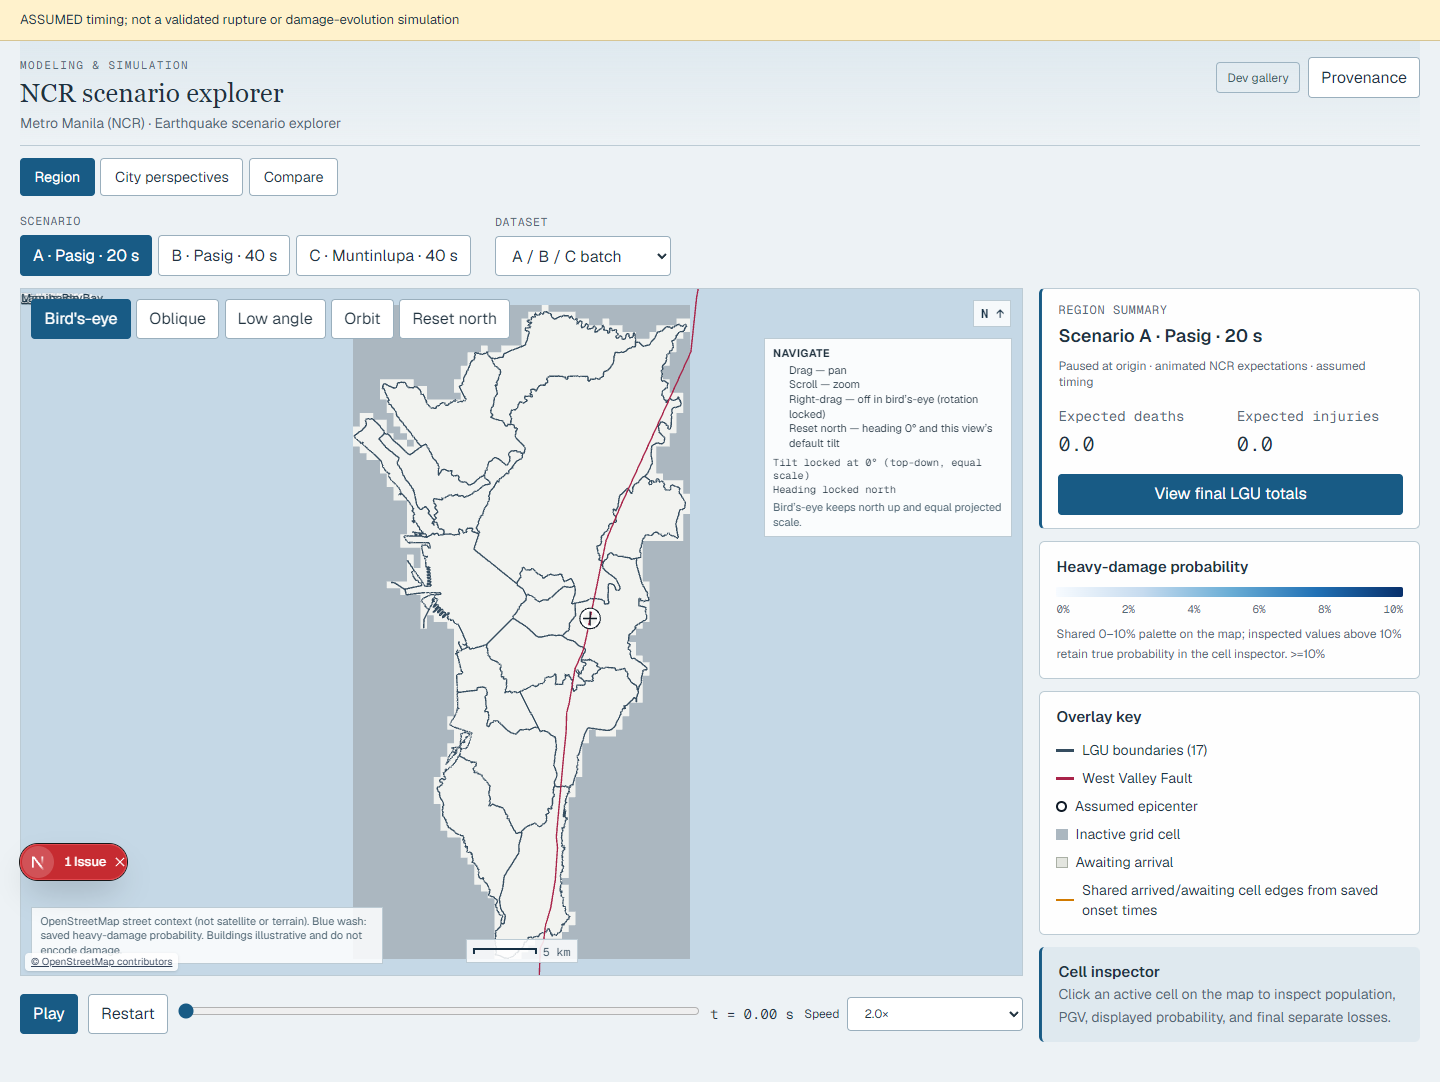
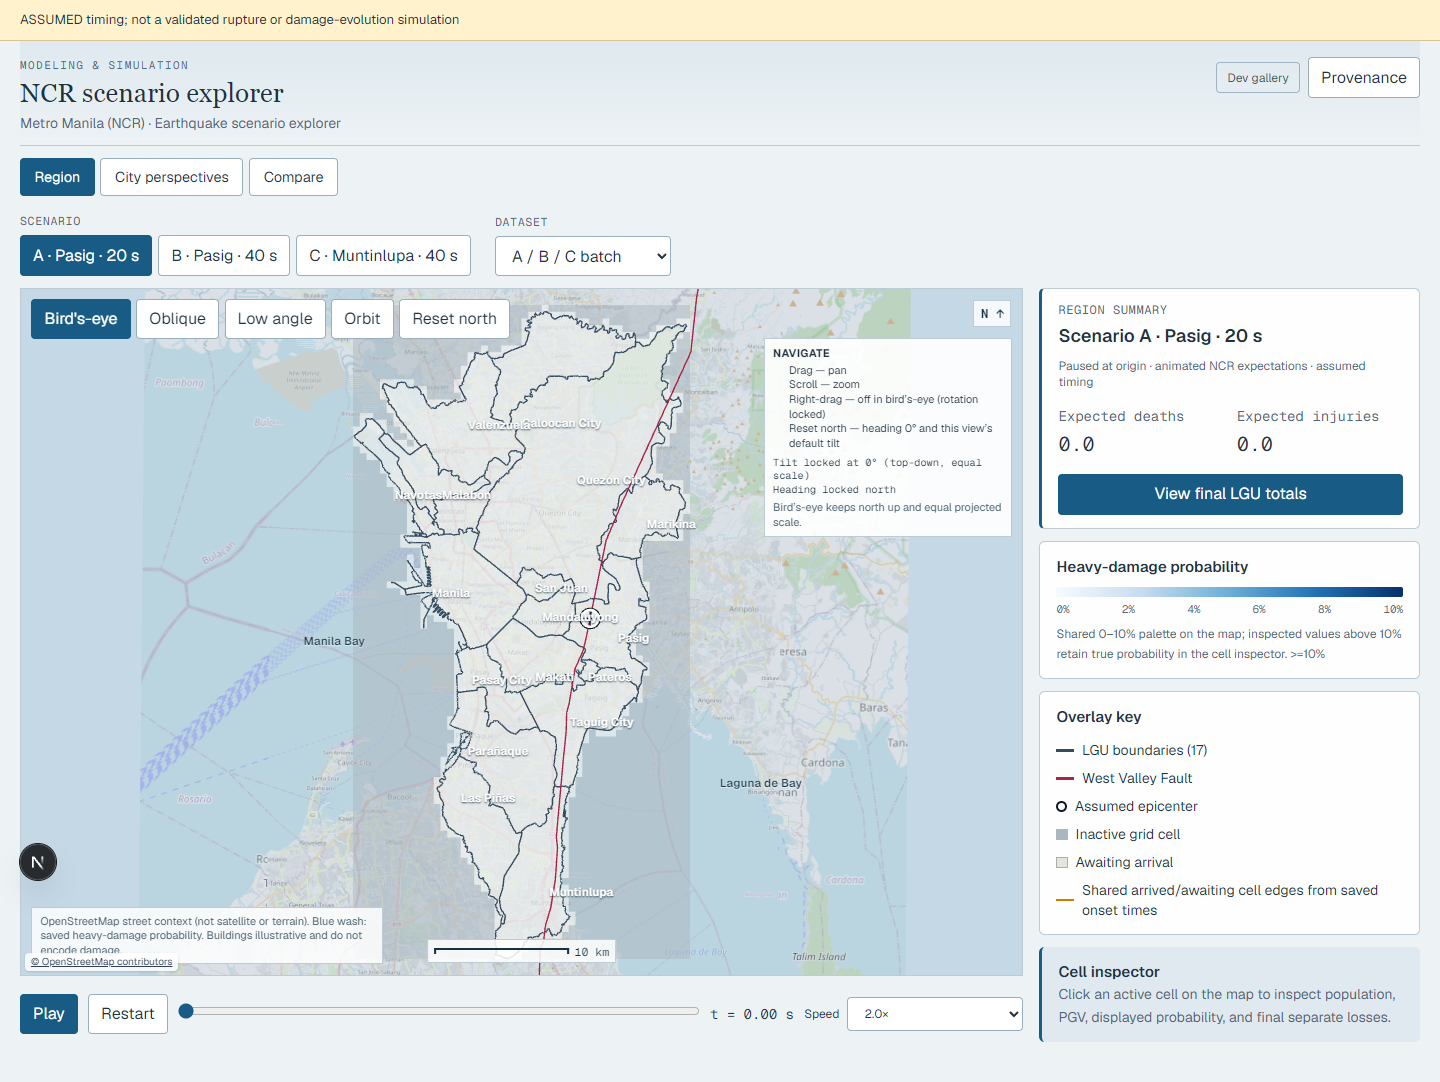
Update MapCanvas to handle azimuth angle retrieval and modify OSM basemap test
- Enhanced azimuth angle retrieval in MapCanvas to support fallback methods for better compatibility.
- Updated OSM basemap test to wait for specific UI elements instead of checking for the modsimExplorer object.
- Updated manifest.json to reflect the latest synchronization timestamp.
- Removed obsolete error context file from test results to clean up the project structure.
- Added new evidence images for the OSM basemap views.

diff --git a/web/components/map/MapCanvas.tsx b/web/components/map/MapCanvas.tsx
@@ -149,7 +149,8 @@ function InnerMapCanvas({
       const cam = mode === 'bird' ? orthoCamera : perspCamera;
       return {
         polar: controls.getPolarAngle(),
-        azimuth: controls.getAzimuthAngle(),
+        azimuth:
+          controls.getAzimuthAngle?.() ?? controls.getAzimuthalAngle?.() ?? 0,
         distance: cam.position.distanceTo(controls.target),
         targetX: controls.target.x,
         targetY: controls.target.y,
@@ -366,7 +367,8 @@ function InnerMapCanvas({
 
           if (cameraMoved) {
             const polar = controls.getPolarAngle();
-            const azimuth = controls.getAzimuthAngle();
+            const azimuth =
+              controls.getAzimuthAngle?.() ?? controls.getAzimuthalAngle?.() ?? 0;
             setPose((prev) =>
               Math.abs(prev.polar - polar) < 0.01 && Math.abs(prev.azimuth - azimuth) < 0.01
                 ? prev

diff --git a/web/e2e/osm-basemap.spec.ts b/web/e2e/osm-basemap.spec.ts
@@ -57,7 +57,7 @@ test.describe('OSM basemap', () => {
 
   test('city Pasig and Pateros', async ({ page }) => {
     await page.goto('/city/PH1307403');
-    await page.waitForFunction(() => !!window.modsimExplorer, null, { timeout: 30_000 });
+    await page.getByText('17 LGUs').waitFor({ timeout: 30_000 });
     await waitMapReady(page);
     await page.screenshot({
       path: path.join(evidenceRoot, 'city_pasig.png'),
